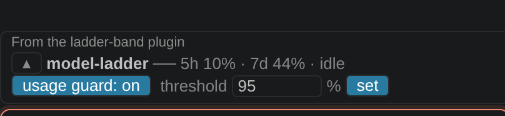
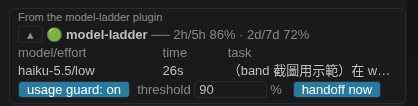
docs: refresh band screenshot with the status dot

Changed region(s): [[0.0, 0.4528, 1.0, 1.0], [0.0, 0.2547, 0.7464, 0.4245], [0.0311, 0.1132, 0.4043, 0.2264]]

diff --git a/README.md b/README.md
@@ -108,7 +108,7 @@ Plugin options (`/plugin configure model-ladder`): `autoRun` (use the ladder by 
 
 A band above the prompt shows each running ladder agent and the usage guard. A dot before the title shows what is running: 🟢 a worker or router, 🔵 the verifier, 🔴 a worker retrying after a failed check. Needs Claude Code 2.1.290+.
 
-<p align="center"><img src="assets/band.png" width="505" alt="The model-ladder band, idle: 5-hour usage 10%, weekly 44%, usage guard on at 90%."></p>
+<p align="center"><img src="assets/band.png" width="418" alt="The model-ladder band"></p>
 
 ```text
 ▴ model-ladder ── 2h/5h 15% · 3d/7d 44%
